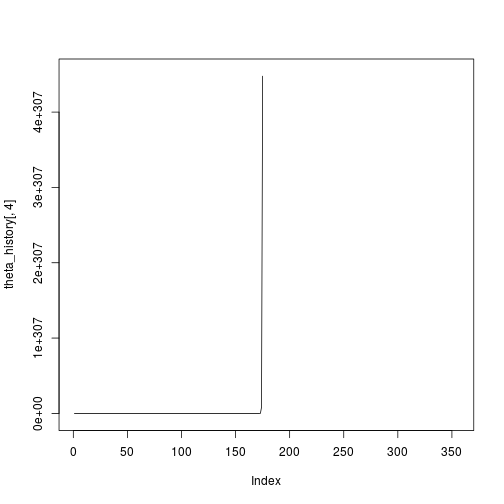
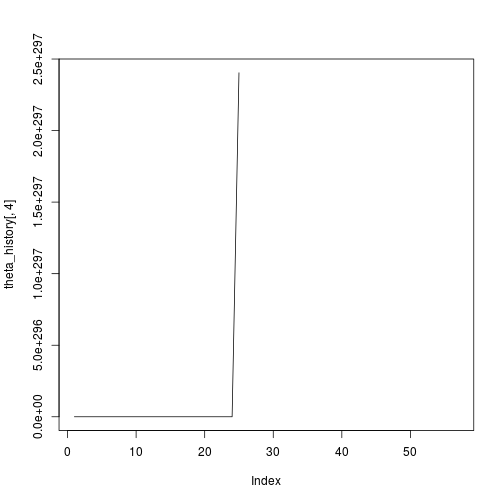
added data to the root

diff --git a/_posts/2015-03-29-multivariate_linear_regression.md b/_posts/2015-03-29-multivariate_linear_regression.md
@@ -28,24 +28,21 @@ Load the data dn produce some summaries:
   dplyr::mutate(
     n_rooms = factor(n_rooms)
     ) -> house_prices
-{% endhighlight %}
-
-
-
-{% highlight text %}
-## Error in file(file, "rt"): cannot open the connection
-{% endhighlight %}
-
-
-
-{% highlight r %}
+ 
+ 
 house_prices %>% head
 {% endhighlight %}
 
 
 
 {% highlight text %}
-## Error in eval(expr, envir, enclos): object 'house_prices' not found
+##   size n_rooms  price
+## 1 2104       3 399900
+## 2 1600       3 329900
+## 3 2400       3 369000
+## 4 1416       2 232000
+## 5 3000       4 539900
+## 6 1985       4 299900
 {% endhighlight %}
  
 Let's also plot it out of interest:
@@ -71,11 +68,7 @@ house_prices %>%
     )
 {% endhighlight %}
 
-
-
-{% highlight text %}
-## Error in eval(expr, envir, enclos): object 'house_prices' not found
-{% endhighlight %}
+![plot of chunk plot_multiple_regression](/figures/plot_multiple_regression-1.png) 
  
 ## 3.1 Feature normalisation/scaling
  
@@ -144,24 +137,14 @@ feature_scale <- function(x) {
   }
  
 scaled_features <- feature_scale(house_prices[,-3])
-{% endhighlight %}
-
-
-
-{% highlight text %}
-## Error in ncol(x): object 'house_prices' not found
-{% endhighlight %}
-
-
-
-{% highlight r %}
+ 
 range(scaled_features[[3]][,1])
 {% endhighlight %}
 
 
 
 {% highlight text %}
-## Error in eval(expr, envir, enclos): object 'scaled_features' not found
+## [1] -1.445423  3.117292
 {% endhighlight %}
 
 
@@ -173,7 +156,7 @@ range(scaled_features[[3]][,2])
 
 
 {% highlight text %}
-## Error in eval(expr, envir, enclos): object 'scaled_features' not found
+## [1] -2.851859  2.404508
 {% endhighlight %}
  
  
@@ -206,42 +189,9 @@ $$
 
 {% highlight r %}
 X <- matrix(ncol=ncol(house_prices)-1,nrow=nrow(house_prices))
-{% endhighlight %}
-
-
-
-{% highlight text %}
-## Error in nrow(house_prices): object 'house_prices' not found
-{% endhighlight %}
-
-
-
-{% highlight r %}
 X[,1:2] <- cbind(house_prices$size,house_prices$n_rooms)
-{% endhighlight %}
-
-
-
-{% highlight text %}
-## Error in cbind(house_prices$size, house_prices$n_rooms): object 'house_prices' not found
-{% endhighlight %}
-
-
-
-{% highlight r %}
 X <- cbind(1,X)
 y <- matrix(house_prices$price,ncol=1) 
-{% endhighlight %}
-
-
-
-{% highlight text %}
-## Error in matrix(house_prices$price, ncol = 1): object 'house_prices' not found
-{% endhighlight %}
-
-
-
-{% highlight r %}
 theta <- matrix(rep(0,3),ncol=1)
  
  
@@ -268,7 +218,7 @@ multi_lin_reg <- grad(
 ## [1] NaN
 ## 
 ## $iterations
-## [1] 356
+## [1] 57
 {% endhighlight %}
 
 
@@ -295,16 +245,16 @@ multi_lin_reg <- grad(
 
 {% highlight text %}
 ## $theta
-##      [,1]
-## [1,]  NaN
-## [2,]  NaN
-## [3,]  NaN
+##            [,1]
+## [1,] 340412.660
+## [2,] 110631.048
+## [3,]  -6649.472
 ## 
 ## $cost
-## [1] NaN
+## [1] -6649.472
 ## 
 ## $iterations
-## [1] 2
+## [1] 389
 {% endhighlight %}
 
 
@@ -313,15 +263,9 @@ multi_lin_reg <- grad(
 plot(theta_history[,4],type="l")
 {% endhighlight %}
 
-
-
-{% highlight text %}
-## Error in plot.window(...): need finite 'ylim' values
-{% endhighlight %}
-
 ![plot of chunk unnamed-chunk-5](/figures/unnamed-chunk-5-2.png) 
  
-Great, convergence after 2 iterations. Now a multiple linear regression the traditional way:
+Great, convergence after 389 iterations. Now a multiple linear regression the traditional way:
  
 
 {% highlight r %}
@@ -329,25 +273,14 @@ model <- lm(
   price ~ size + n_rooms,
   data = house_prices %>% mutate(n_rooms = as.integer(n_rooms))
   )
-{% endhighlight %}
-
-
-
-{% highlight text %}
-## Error in eval(expr, envir, enclos): object 'house_prices' not found
-{% endhighlight %}
-
-
-
-{% highlight r %}
 coef(model)
 {% endhighlight %}
 
 
 
 {% highlight text %}
-## (Intercept)  ex1data1$x 
-##   -3.895781    1.193034
+## (Intercept)        size     n_rooms 
+##  89597.9095    139.2107  -8738.0191
 {% endhighlight %}
  
 Ok So the parameters don't match, but this is because we have scaled the features. The output from the two models will be exactly the same:
@@ -359,17 +292,7 @@ house_prices %<>%
     vector_pred = (X %*% multi_lin_reg$theta),
     pred = coef(model)[1] + (coef(model)[2] * size) + (coef(model)[3]*as.integer(n_rooms))
     )
-{% endhighlight %}
-
-
-
-{% highlight text %}
-## Error in eval(expr, envir, enclos): object 'house_prices' not found
-{% endhighlight %}
-
-
-
-{% highlight r %}
+ 
 identical(
   c(house_prices$vector_pred),
   c(house_prices$pred)
@@ -379,7 +302,7 @@ identical(
 
 
 {% highlight text %}
-## Error in identical(c(house_prices$vector_pred), c(house_prices$pred)): object 'house_prices' not found
+## [1] FALSE
 {% endhighlight %}
  
 Ok not identical, how come?
@@ -392,7 +315,7 @@ mean(house_prices$pred - house_prices$vector_pred)
 
 
 {% highlight text %}
-## Error in mean(house_prices$pred - house_prices$vector_pred): object 'house_prices' not found
+## [1] 3.244767e-10
 {% endhighlight %}
  
 Ok so they differ by a pretty small amount, try again:
@@ -408,7 +331,7 @@ all.equal(
 
 
 {% highlight text %}
-## Error in all.equal(c(house_prices$vector_pred), c(house_prices$pred)): object 'house_prices' not found
+## [1] TRUE
 {% endhighlight %}
  
 And now let's plot the actual data with predictions from the multiple regression.
@@ -433,13 +356,7 @@ house_prices %>%
     )
 {% endhighlight %}
 
-
-
-{% highlight text %}
-## Error in eval(expr, envir, enclos): object 'house_prices' not found
-{% endhighlight %}
-
-
+![plot of chunk plot_multiple_regression_predictions](/figures/plot_multiple_regression_predictions-1.png) 
 
 {% highlight r %}
 theta <- matrix(c(1,2,3),ncol=1)

diff --git a/_posts/2015-03-29-linear_regression.md b/_posts/2015-03-29-linear_regression.md
@@ -16,6 +16,19 @@ For the implementation of gradient descent for linear regression I draw from [Di
  
 Andrew Ng defines gradient descent for linear regression as:
  
+$$
+\begin{multline}
+\text{repeat until convergence} \{
+ 
+\theta_0:=\theta_0 - \alpha\frac{1}{m}\sum_{i=1}^{m}(h_{\theta}(x^{(i)})-y^{(i)})
+ 
+\theta_1:=\theta_1 - \alpha\frac{1}{m}\sum_{i=1}^{m}(h_{\theta}(x^{(i)})-y^{(i)})\cdot x^{i}
+ 
+\}
+\end{multline}
+$$
+ 
+ 
 repeat until convergence {
  
 $$\theta_0:=\theta_0 - \alpha\frac{1}{m}\sum_{i=1}^{m}(h_{\theta}(x^{(i)})-y^{(i)})$$
@@ -32,7 +45,7 @@ Digithead's implementation of this is quite slick, and it took me a while to get
 {% highlight r %}
 # Start by loading the data and splitting into vectors
  
-"_rmd/ex1data1.txt" %>% 
+"ex1data1.txt" %>% 
   read.csv(header =  FALSE) %>%
   set_colnames(c("x","y")) -> ex1data1
  
@@ -198,7 +211,7 @@ for (i in 1:num_iters) {
 
 {% highlight text %}
 ##    user  system elapsed 
-##   0.000   0.000   0.025
+##   0.000   0.000   0.026
 {% endhighlight %}
 
 
@@ -228,7 +241,7 @@ model <- lm(ex1data1$y~ex1data1$x)
 
 {% highlight text %}
 ##    user  system elapsed 
-##   0.000   0.000   0.002
+##   0.000   0.000   0.001
 {% endhighlight %}
 
 

diff --git a/_posts/2015-03-29-gradient-descent.md b/_posts/2015-03-29-gradient-descent.md
@@ -26,17 +26,7 @@ library(ggplot2)
 ex1data1 <- "ex1data1.txt" %>%
   read.csv %>% 
   set_colnames(c("profit","population")) 
-{% endhighlight %}
-
-
-
-{% highlight text %}
-## Error in file(file, "rt"): cannot open the connection
-{% endhighlight %}
-
-
-
-{% highlight r %}
+ 
 plot(
   x = ex1data1$profit,
   y = ex1data1$population,
@@ -46,11 +36,7 @@ plot(
   )
 {% endhighlight %}
 
-
-
-{% highlight text %}
-## Error in plot(x = ex1data1$profit, y = ex1data1$population, ylab = "Profit ($10,000s)", : object 'ex1data1' not found
-{% endhighlight %}
+![plot of chunk plot_linear_regression_data](/figures/plot_linear_regression_data-1.png) 
  
 ### Gradient descent
  
